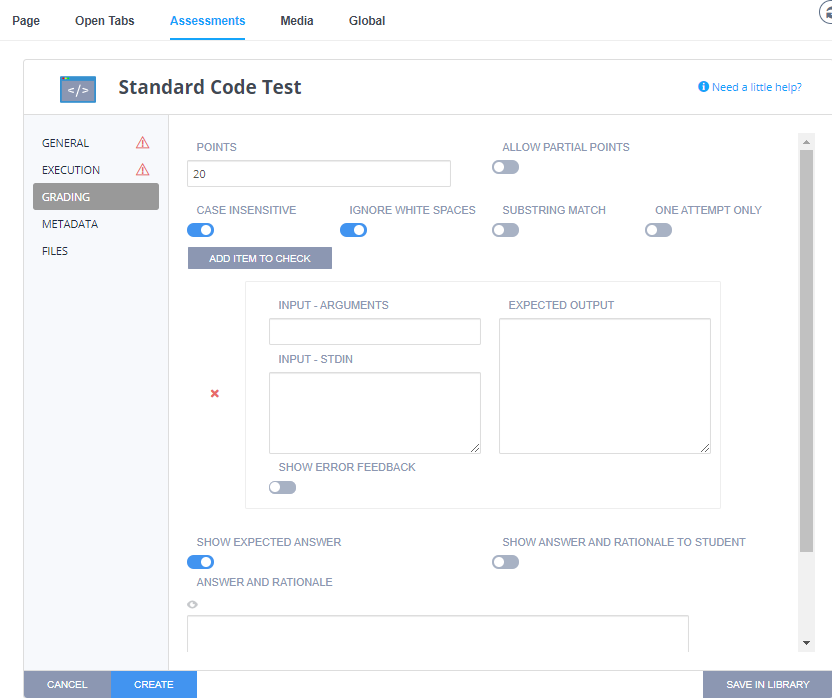
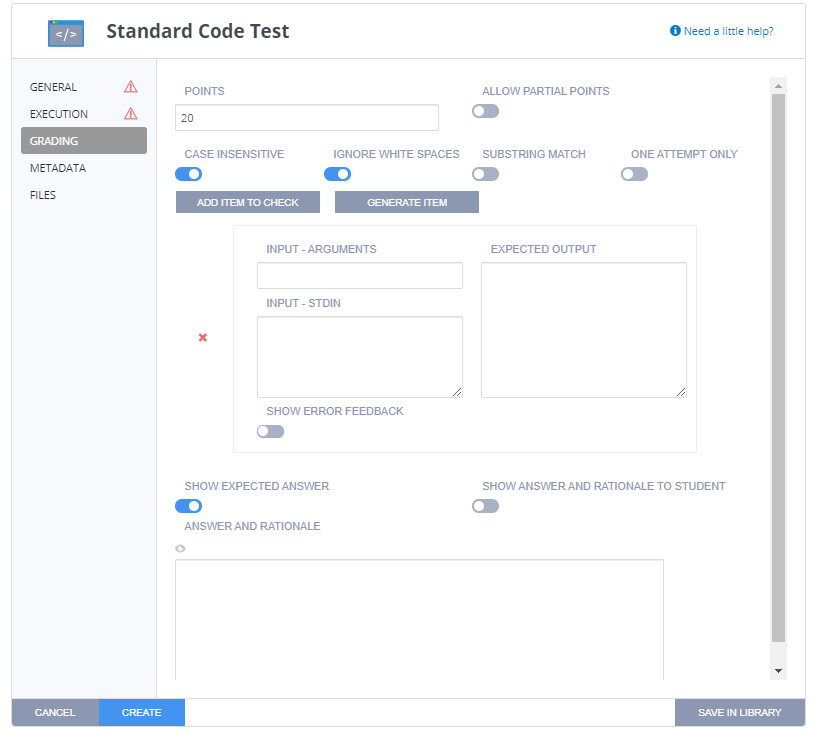
changelog #11620 (#49)

diff --git a/docs/courses/assessments.md b/docs/courses/assessments.md
@@ -104,6 +104,8 @@ There is a Starter Pack project that you can add to your account. [Click here to
 
 <p><a href="https://codio.wistia.com/medias/dwts4k9ftt?wvideo=dwts4k9ftt"><img src="https://embed-fastly.wistia.com/deliveries/7ddb5a318f564234fa175a2beed2facc974c3036.jpg?image_play_button_size=2x&amp;image_crop_resized=960x540&amp;image_play_button=1&amp;image_play_button_color=1e71e7e0" width="400" height="225" style="width: 400px; height: 225px;"></a></p>
 
+** Please note, since this video was created the ability to easily generate items to test has been added. See [Generate Items](/courses/assessments/#generate-items) below.
+
 ### Basic setup
 The configuration fields for an assessment are split into five sections: General, Execution, Grading, Metadata, and Files.
 
@@ -127,7 +129,7 @@ The screenshot below shows the configuration fields for the _Execution_ section:
 #### Grading
 The screenshot below shows the configuration fields for the _Grading_ section:
 
-![](/img/guides/assessment_sct_grading.png)
+![Code Test Grading](/img/guides/assessment_sct_grading.png)
 
 - **Points** is the score given to the student if the code test passes. You can enter any positive numeric value.
 - Enabling the **Allow Partial Points** switch will allow partial points to be given. See the section [Partial Points](#partial-points) lower down on this page. With this enabled, the grade is based on the % of test cases the code passes.
@@ -138,7 +140,15 @@ The screenshot below shows the configuration fields for the _Grading_ section:
 - **Show expected answer** will show the students the expected output when they have submitted an answer for the question. To suppress this, flip the switch.
 - **Answer and rationale** is where guidance for the assessment can be entered. This will be visible to the teacher when the project is opened in the course or when opening the students project. This guidance information can also be shown to students after they have submitted their answer and also if they reload the assignment after marking it as completed. To enable this, flip the **Show Answer and Rationale to Student** switch below the guidance field.
 
-<a name="metadata"></a>
+##### Generate Items
+
+![Generate Items](/img/guides/generateitem.png)
+
+This allows you to generate your code test items more easily.
+
+Click on **Generate Item**, set the command to your script file (including any pre-exec command if required)
+and then enter your inputs to generate the item to be checked by your code.
+
 #### Metadata
 
 ![](/img/guides/assessment_metadata.png)

diff --git a/docs/resources/changelog.md b/docs/resources/changelog.md
@@ -13,6 +13,7 @@ We do not report small bug fixes or issues that affect individual users, who we 
 
 **September 2020**
 
+- `[F] [16th]`: Add ability to more easily [generate items](/courses/assessments/#generate-items) for Standard Code test
 - `[I] [16th]`: Fix problem with Code Commenting where guides layout protected
 - `[I] [15th]`: Improvements for Code Commenting to remember toggled state and to show new comments in real time
 - `[I] [15th]`: Improve handling of .svg files in books
